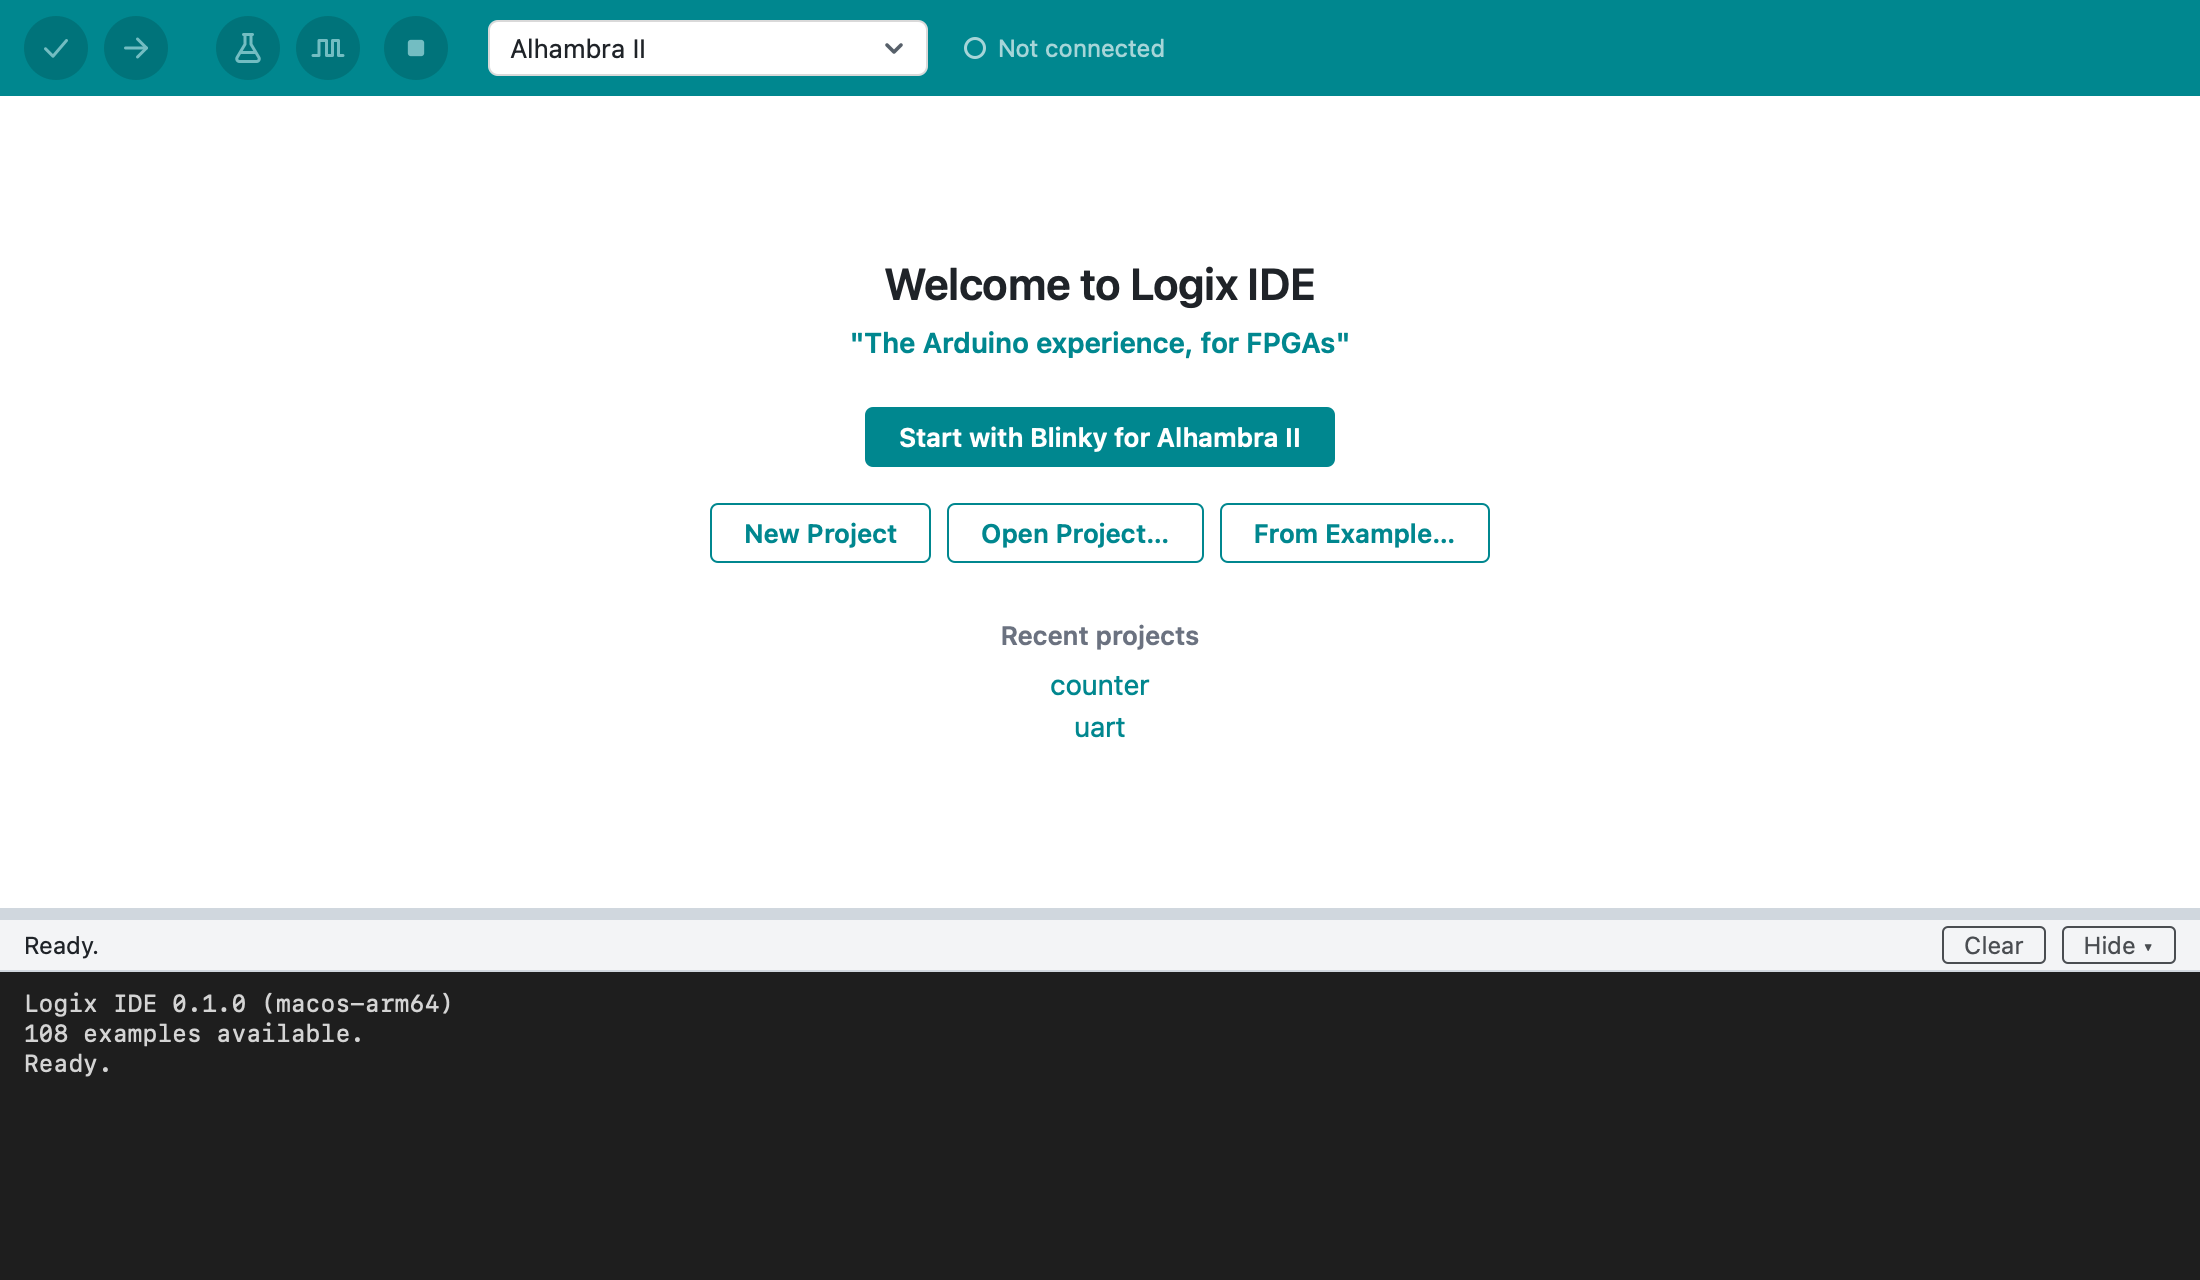
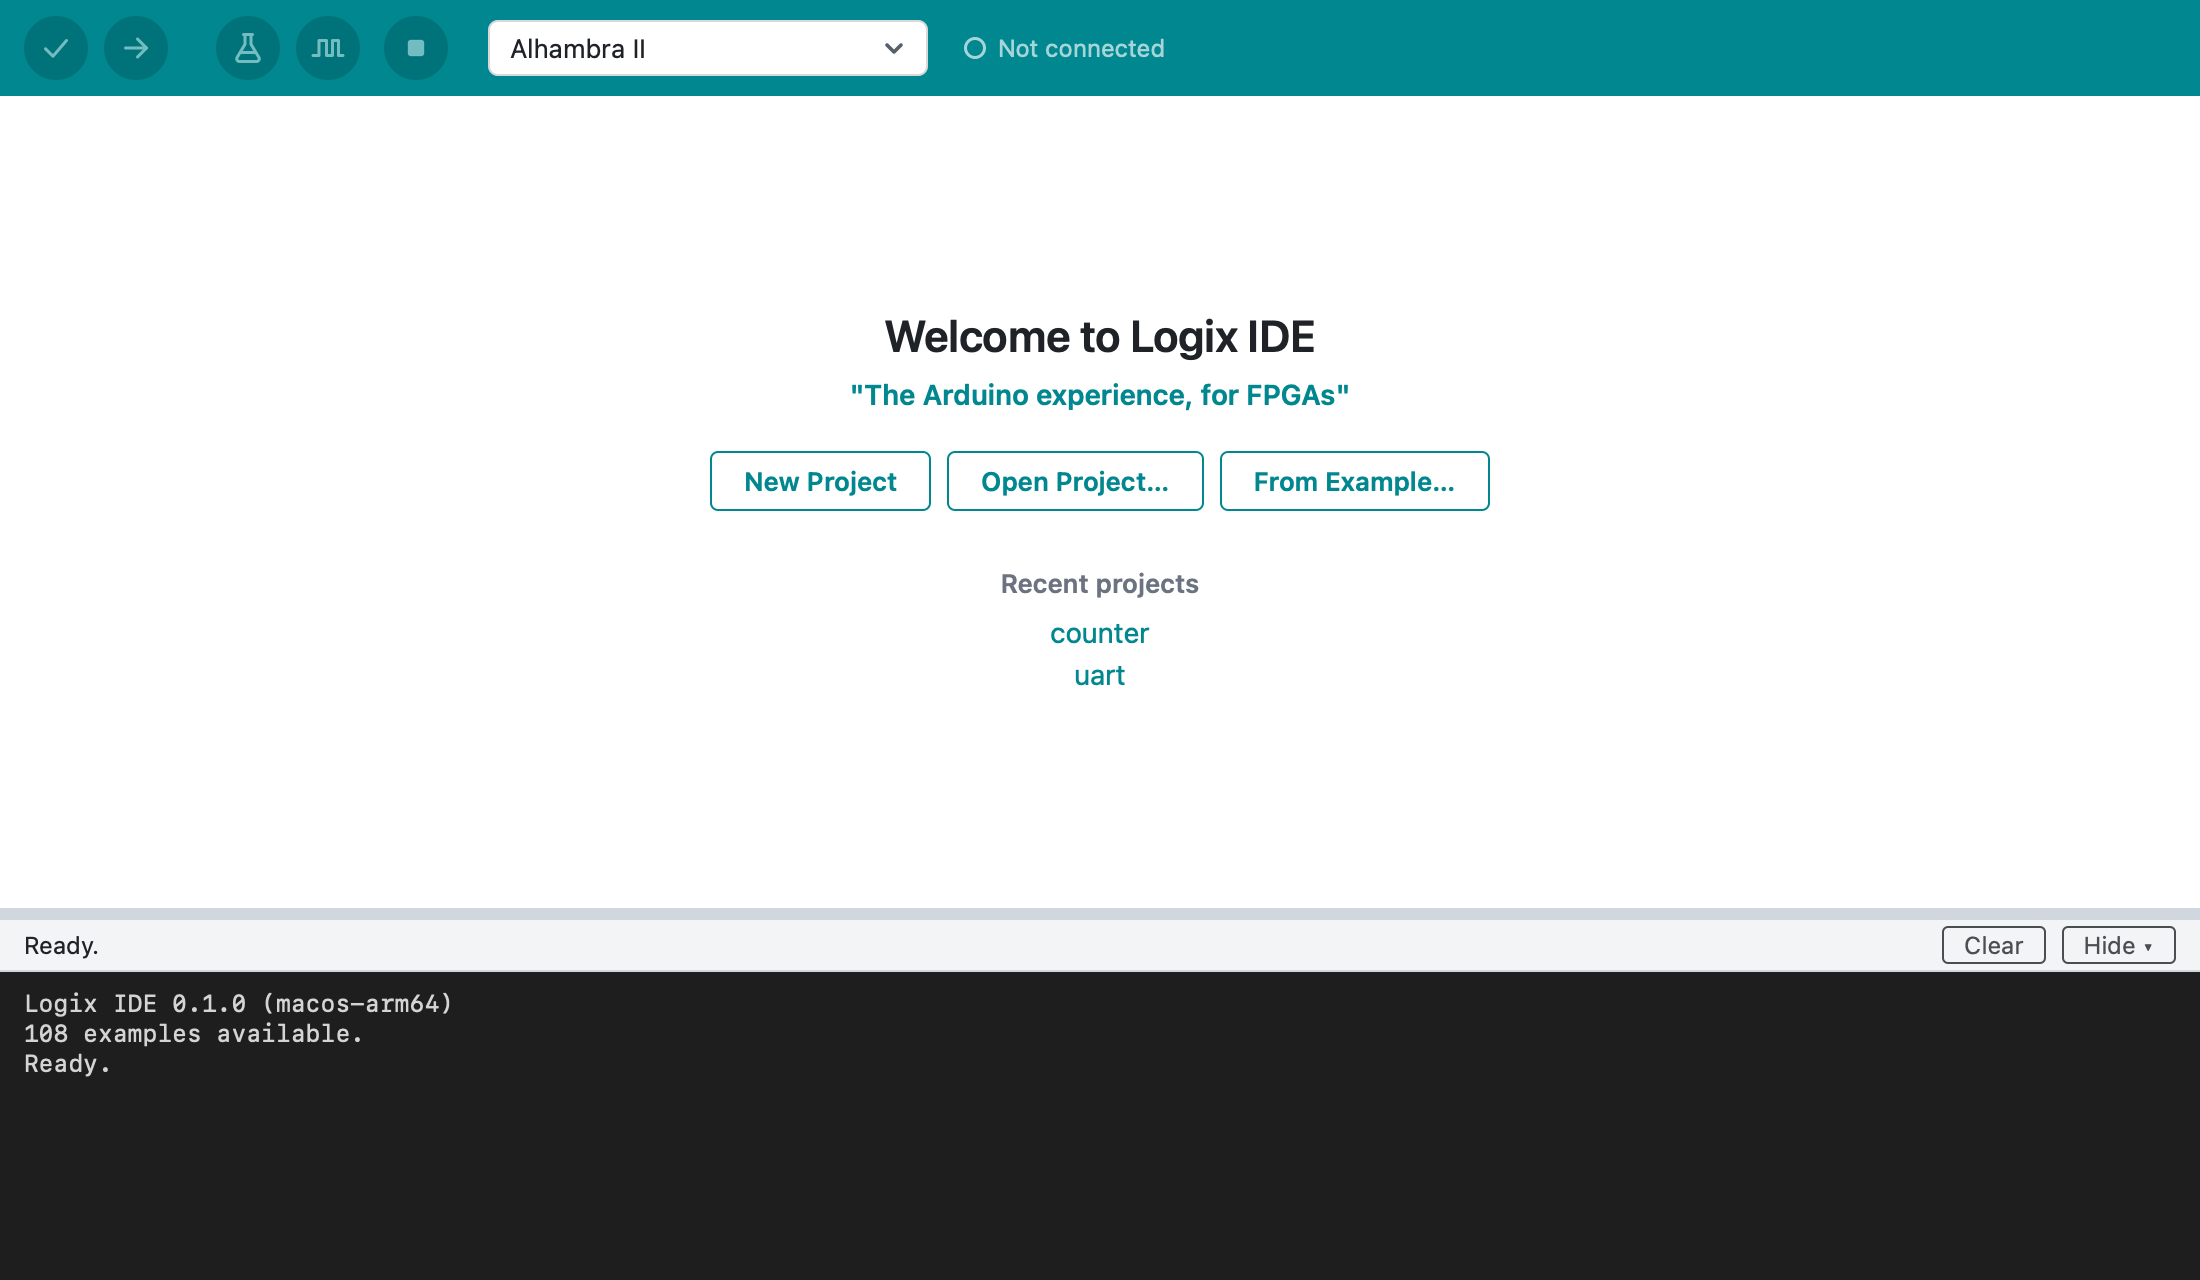
Start screen: remove Start with Blinky (examples are under From Example…)

Changed region(s): [[0.34, 0.1875, 0.68, 0.5938]]

diff --git a/ui/e2e/app.e2e.ts b/ui/e2e/app.e2e.ts
@@ -16,12 +16,15 @@ async function pickBoard(page: Page, name: string) {
 
 /**
  * Opens the app, waits until the (fake) FPGA tools are ready, and starts
- * with the Alhambra II's blinky from the start screen.
+ * with the Alhambra II's blinky (the start screen's From Example…).
  */
 async function start(page: Page) {
   await page.goto("/");
   await expect(output(page)).toContainText("Ready.");
-  await page.getByRole("button", { name: "Start with Blinky for Alhambra II" }).click();
+  await page.getByRole("button", { name: "From Example…" }).click();
+  const dialog = page.getByRole("dialog", { name: "Examples" });
+  await dialog.getByRole("button", { name: /^blinky/ }).click();
+  await dialog.getByRole("button", { name: "Open" }).click();
   await expect(tab(page, "pinout.pcf")).toBeVisible();
 }
 
@@ -93,7 +96,8 @@ test("starts with the start screen, and New / Close Project", async ({ page }) =
   await expect(output(page)).toContainText(/Closed the project\.\s*Ready\./);
   // The board can still be changed; it's used for the next project.
   await pickBoard(page, "iCEBreaker");
-  await expect(start).toContainText("Start with Blinky for iCEBreaker");
+  await expect(boardButton(page)).toHaveText(/iCEBreaker/);
+  await expect(start).toBeVisible();
 });
 
 test("starts up with the tools ready and the boards listed", async ({ page }) => {
@@ -117,7 +121,7 @@ test("starts up with the tools ready and the boards listed", async ({ page }) =>
   await expect(page.getByRole("option")).not.toHaveCount(8);
   await page.keyboard.press("Escape");
   await expect(page.getByRole("listbox")).toBeHidden();
-  // The Alhambra II by default, and its blinky (from the start screen) is
+  // The Alhambra II by default, and its blinky (from the examples) is
   // ready to build.
   await expect(boardButton(page)).toHaveText(/Alhambra II/);
   await expect(tab(page, "pinout.pcf")).toBeVisible();

diff --git a/ui/src/App.svelte b/ui/src/App.svelte
@@ -825,12 +825,6 @@
   const currentBoard = $derived(project ? project.board : homeBoard);
   /** The start screen's recent projects (folders). */
   let recents = $state<string[]>([]);
-  /** The board's starter example (blinky, else ledon), if it has one. */
-  const starter = $derived(
-    ["blinky", "ledon"]
-      .map((n) => examples.find((e) => e.board === currentBoard && e.name === n))
-      .find((e) => e) ?? null,
-  );
   /** Whether Verify and Upload can be started now. */
   const canRun = $derived(
     ready && project !== null && running === null && activity === null,
@@ -1007,11 +1001,6 @@
     cancelNaming();
     await backend.closeProject();
     finish("Closed the project.");
-  }
-
-  /** The start screen's "Start with Blinky". */
-  function startWithStarter() {
-    if (starter) openExample({ ...starter, bare: false });
   }
 
   /** File > Open Recent. */
@@ -1513,12 +1502,6 @@
               minutes.
             </p>
           {/if}
-          {#if starter}
-            <button class="start-blinky" onclick={startWithStarter}
-              >Start with {starter.name === "blinky" ? "Blinky" : starter.name}
-              for {boardName(currentBoard)}</button
-            >
-          {/if}
           <div class="start-actions">
             <button onclick={() => exclusive(newProject)}>New Project</button>
             <button onclick={() => exclusive(openProject)}>Open Project…</button>
@@ -1934,8 +1917,7 @@
     margin: 0 0 12px;
     line-height: 1.5;
   }
-  .start-actions button,
-  .welcome .start-blinky {
+  .start-actions button {
     padding: 6px 16px;
     font: inherit;
     font-size: 13px;
@@ -1949,11 +1931,6 @@
   .start-actions button:disabled {
     opacity: 0.5;
     cursor: default;
-  }
-  .welcome .start-blinky {
-    margin: 4px 0 12px;
-    background: var(--accent);
-    color: #ffffff;
   }
   .start-actions {
     display: flex;

diff --git a/ui/e2e/docs.shots.ts b/ui/e2e/docs.shots.ts
@@ -15,9 +15,12 @@ const menu = (page: Page, id: string) =>
 async function startWithBoard(page: Page) {
   await page.goto("/");
   await expect(page.locator(".console")).toContainText("Ready.");
-  // Start with the Alhambra II blinky from the start screen.
+  // Open the Alhambra II blinky from the start screen's From Example….
   await expect(page.locator(".board-button")).toHaveText(/Alhambra II/);
-  await page.getByRole("button", { name: "Start with Blinky for Alhambra II" }).click();
+  await page.getByRole("button", { name: "From Example…" }).click();
+  const examples = page.getByRole("dialog", { name: "Examples" });
+  await examples.getByRole("button", { name: /^blinky/ }).click();
+  await examples.getByRole("button", { name: "Open" }).click();
   await expect(page.locator(".tab", { hasText: "pinout.pcf" })).toBeVisible();
   // The board is plugged in, as when following the quick start.
   await page.evaluate(() => {

diff --git a/CLAUDE.md b/CLAUDE.md
@@ -200,7 +200,7 @@ All Tauri commands are in `commands.rs`, registered in `lib.rs` and wrapped in `
 
 What the tests check (keep these when regenerating; add to them with new features):
 
-- **UI end-to-end** (`ui/e2e/app.e2e.ts`): the engine's package install progress in the status bar (`/?engineSetup` holds the fake setup there until `__fake.finishSetup()`); the start screen, New Project (an empty design), Close Project back to the start screen with recent projects (`__fake.recents`), and a board picked without a project; starts (via "Start with Blinky") with the tools ready and boards listed; a new project builds right away; a build error is marked in the editor and linked in the output; adding a file as a tab, with name checks; Auto Format replaces the text and reports it; picking the current board or another board offers its examples; plugged-in boards listed first, with the Connected label; a board's Bare Minimum from the examples; the editor's right-click Comment/Uncomment; selecting and copying the output; hiding the output and its return on a build; the diagram and switching modules; Connected Devices; Settings changing the theme and font size.
+- **UI end-to-end** (`ui/e2e/app.e2e.ts`): the engine's package install progress in the status bar (`/?engineSetup` holds the fake setup there until `__fake.finishSetup()`); the start screen, New Project (an empty design), Close Project back to the start screen with recent projects (`__fake.recents`), and a board picked without a project; starts (blinky via the start screen's From Example…) with the tools ready and boards listed; a new project builds right away; a build error is marked in the editor and linked in the output; adding a file as a tab, with name checks; Auto Format replaces the text and reports it; picking the current board or another board offers its examples; plugged-in boards listed first, with the Connected label; a board's Bare Minimum from the examples; the editor's right-click Comment/Uncomment; selecting and copying the output; hiding the output and its return on a build; the diagram and switching modules; Connected Devices; Settings changing the theme and font size.
 - **UI units** (Vitest, `*.test.ts` next to the code): formatting, ANSI colors and output links, boards grouping, build report summary, devices summary, examples search, the working project, tasks' plain-language messages, the language server helpers, layout.
 - **Rust units** (`cargo test`), in each module: project files and name rules, build folder contents, the examples (every one opens as a project, every board is an engine board), Bare Minimum (every starter gives one), USB board matching, settings, bundle download/metadata, the engine package, progress and setup helpers, platform, logging, menus, and the engine's tasks, formatting and devices. The `#[ignore]`d tests run against a real engine: `real_engine_starts` (MCP session, `get_engine_info`, a tool error) and `real_engine_install_progress` (installs the 8 MB `verible` package and checks the setup gets increasing percentages): `LOGIX_TEST_ENGINE_EXE=<logix-engine> cargo test real_engine -- --ignored`; `real_engine_build` (Verify, a syntax error at its line, Upload ending in `connect_board` without a board, Run Tests passing and failing at the testbench's line, Show Diagram and a missing module, Auto Format of a messy and a broken file; not Simulate, which opens GTKWave), on the alhambra-ii blinky example, which also needs `LOGIX_TEST_ENGINE_FOLDER=<engine folder with packages>`; `real_examples_build` (Verify and Run Tests for every example, Verify for every Bare Minimum; slow), with the same variables; and `capture_fixtures` (writes the fake backend's fixtures; see `ui/e2e/fixtures/README.md`). The engine adapter's units cover the notification routing and `tee` order, the build report, error mapping, testbench endings, the diagram's paths, USB board matching and the console's progress bar collapsing.
 
@@ -227,7 +227,7 @@ Use the current major versions of GitHub's actions (`actions/checkout`, `setup-n
 - **Output (console) visibility**: View > Toggle Output (Cmd+J) or the Hide/Show button on the status bar hides the console and divider, leaving the one-line status bar. The choice is remembered (`localStorage`, like the console height). The console comes back by itself when Verify, Upload, Run Tests or Simulate starts, and when Auto Format or setup fails (`showOutput()` in `App.svelte`), as in Arduino IDE 2.
 - **Reopening the last project**: `src-tauri/src/settings.rs` keeps IDE settings in `~/.logix/settings.json` (unknown fields preserved). Opening, saving or Save As records the project folder; at startup the UI calls `open_last_project` and shows the start screen if there's none or it can't be loaded (with a console note). File > Close Project clears it (`close_project`; the recent projects stay), so the next start shows the start screen rather than the closed project.
 - **Always a board**: the toolbar always shows a board, with or without a project: the project's, or else `homeBoard` (the last chosen, `last_board`: `lastBoard` in `settings.json`, else `examples::DEFAULT_BOARD`, `alhambra-ii`, FPGAwars' board). Picking one with no project sets `homeBoard` and `lastBoard`; New Project and the examples use it. Only a project opened from disk without a board shows "Select board…".
-- **No project and the start screen** (decided): with no project open (`project === null`: the first start, no last project, or after File > Close Project), the editor area shows the start screen (`welcome` in `App.svelte`, labelled "Start"): "Welcome to Logix IDE", the motto, "Getting the FPGA tools ready…" or a pointer to the setup error while the tools aren't ready, a highlighted "Start with Blinky for <board>" (the board's starter example, `blinky` else `ledon`, once the examples are loaded), New Project, Open Project…, From Example…, and up to 5 recent projects (buttons with the folder name, the path as tooltip). Tabs and editor are hidden (not unmounted), and Verify etc. are disabled. Why: "New" giving someone else's design (blinky) was confusing, and a single-window app needs a state without a project to close to. Close Project asks to save first (`confirmLeave`), keeps the board as `homeBoard`, clears `lastProject` (`close_project`, so a restart stays on the start screen), and ends with "Closed the project." and "Ready.".
+- **No project and the start screen** (decided): with no project open (`project === null`: the first start, no last project, or after File > Close Project), the editor area shows the start screen (`welcome` in `App.svelte`, labelled "Start"): "Welcome to Logix IDE", the motto, "Getting the FPGA tools ready…" or a pointer to the setup error while the tools aren't ready, New Project, Open Project…, From Example…, and up to 5 recent projects (buttons with the folder name, the path as tooltip). Tabs and editor are hidden (not unmounted), and Verify etc. are disabled. No "Start with Blinky" button (removed, the user's decision): examples are one click away under From Example…. Why a start screen: "New" giving someone else's design (blinky) was confusing, and a single-window app needs a state without a project to close to. Close Project asks to save first (`confirmLeave`), keeps the board as `homeBoard`, clears `lastProject` (`close_project`, so a restart stays on the start screen), and ends with "Closed the project." and "Ready.".
 - **New projects** (File > New Project > Empty Project, or the start screen's New Project): `new_project(board)` gives the board's Bare Minimum (its pin file and a `main.v` that builds and does nothing yet; see Bare Minimum), as Arduino's File > New gives an empty sketch, named "untitled"; boards without a starter get the no-pins `main.v`. It needs no tools (the examples are built in). Startup reopens the last project, or else shows the start screen; it never makes a project by itself. Changing the board never replaces files (as in Arduino): `setBoard` holds it in `pendingBoard` and opens the Examples dialog for that board only (`onlyBoard`; "Keep Current Files" or Esc applies the board, opening an example brings its own board, so "Save changes?" is only asked about real edits). A missing pin file is explained in plain words (`friendly` in `ui/src/lib/tasks.ts`).
 - **Board picker** (`ui/src/lib/BoardPicker.svelte`, like Arduino IDE 2's board selector; replaced a native `<select>`, which can't report picking the current board): a button with the board's name opens a searchable list (combobox + listbox, arrows/Page/Enter/Esc), "Connected" first, then all boards grouped by FPGA architecture (`Board.arch` from the engine catalog's FPGA `architecture`; groups and order in `ui/src/lib/boards.ts`: iCE40, ECP5, Gowin, Xilinx, then others). Picking any board, the current one included, calls `setBoard`. Architecture groups are collapsible (not "Connected"), in the picker and in the Examples dialog's boards column (`groupByArch`); the expanded ones are shared by both and remembered in `localStorage` (`ui/src/lib/expandedGroups.svelte.ts`, all collapsed by default), opening a list expands the current board's group, and a search shows matches in all groups.
 - **Board**: chosen in the toolbar's board picker and stored in `logix-ide.toml`. Changing it offers the board's examples (see New projects) and, if the files are kept, marks the project as unsaved.

diff --git a/docs/quick-start.md b/docs/quick-start.md
@@ -6,11 +6,11 @@ From a new project to a blinking LED in a few steps.
 
 Start Logix and wait until the output area at the bottom shows **Ready.**
 The window shows the start screen. Choose your board in the list in the
-toolbar (the **Alhambra II** is selected at first), then click **Start with
-Blinky for** your board. (On a few boards the basic example is called
-**ledon**.)
+toolbar (the **Alhambra II** is selected at first), then click **From
+Example…**, pick **blinky** for your board and click **Open**. (On a few
+boards the basic example is called **ledon**.)
 
-![The start screen: Start with Blinky, New Project, Open Project, From Example, and recent projects](images/start.png)
+![The start screen: New Project, Open Project, From Example, and recent projects](images/start.png)
 
 The project has everything needed to build: `main.v` (the design), a pin file such
 as `pinout.pcf` (which FPGA pins connect to what on the board), and usually a

diff --git a/docs/using-logix.md b/docs/using-logix.md
@@ -54,8 +54,8 @@ inside another project.
 - **Open, close and save**: **File > Open Project…**, **Open Recent**,
   **Close Project** (++cmd+w++), **Save Project**, **Save Project As…**.
   Logix reopens the last project when it starts, unless you closed it.
-  With no project open, the start screen offers a new project, an example
-  (**Start with Blinky** for the selected board) and your recent projects;
+  With no project open, the start screen offers a new project, opening a
+  project or an example, and your recent projects;
   the board in the toolbar is the one new projects use.
   **Save As…** over an existing project replaces it; the old one goes to
   the Trash.

diff --git a/docs/tour.md b/docs/tour.md
@@ -109,8 +109,8 @@ hardware you meant.
 ## Your first blink
 
 1. Pick your board in the toolbar.
-2. On the start screen, click **Start with Blinky** (or **File > New
-   Project > From Example…**, then blinky).
+2. On the start screen, click **From Example…** (or **File > New
+   Project > From Example…**), then open blinky.
 3. **Verify**.
 4. **Upload**. The LED blinks.
 
